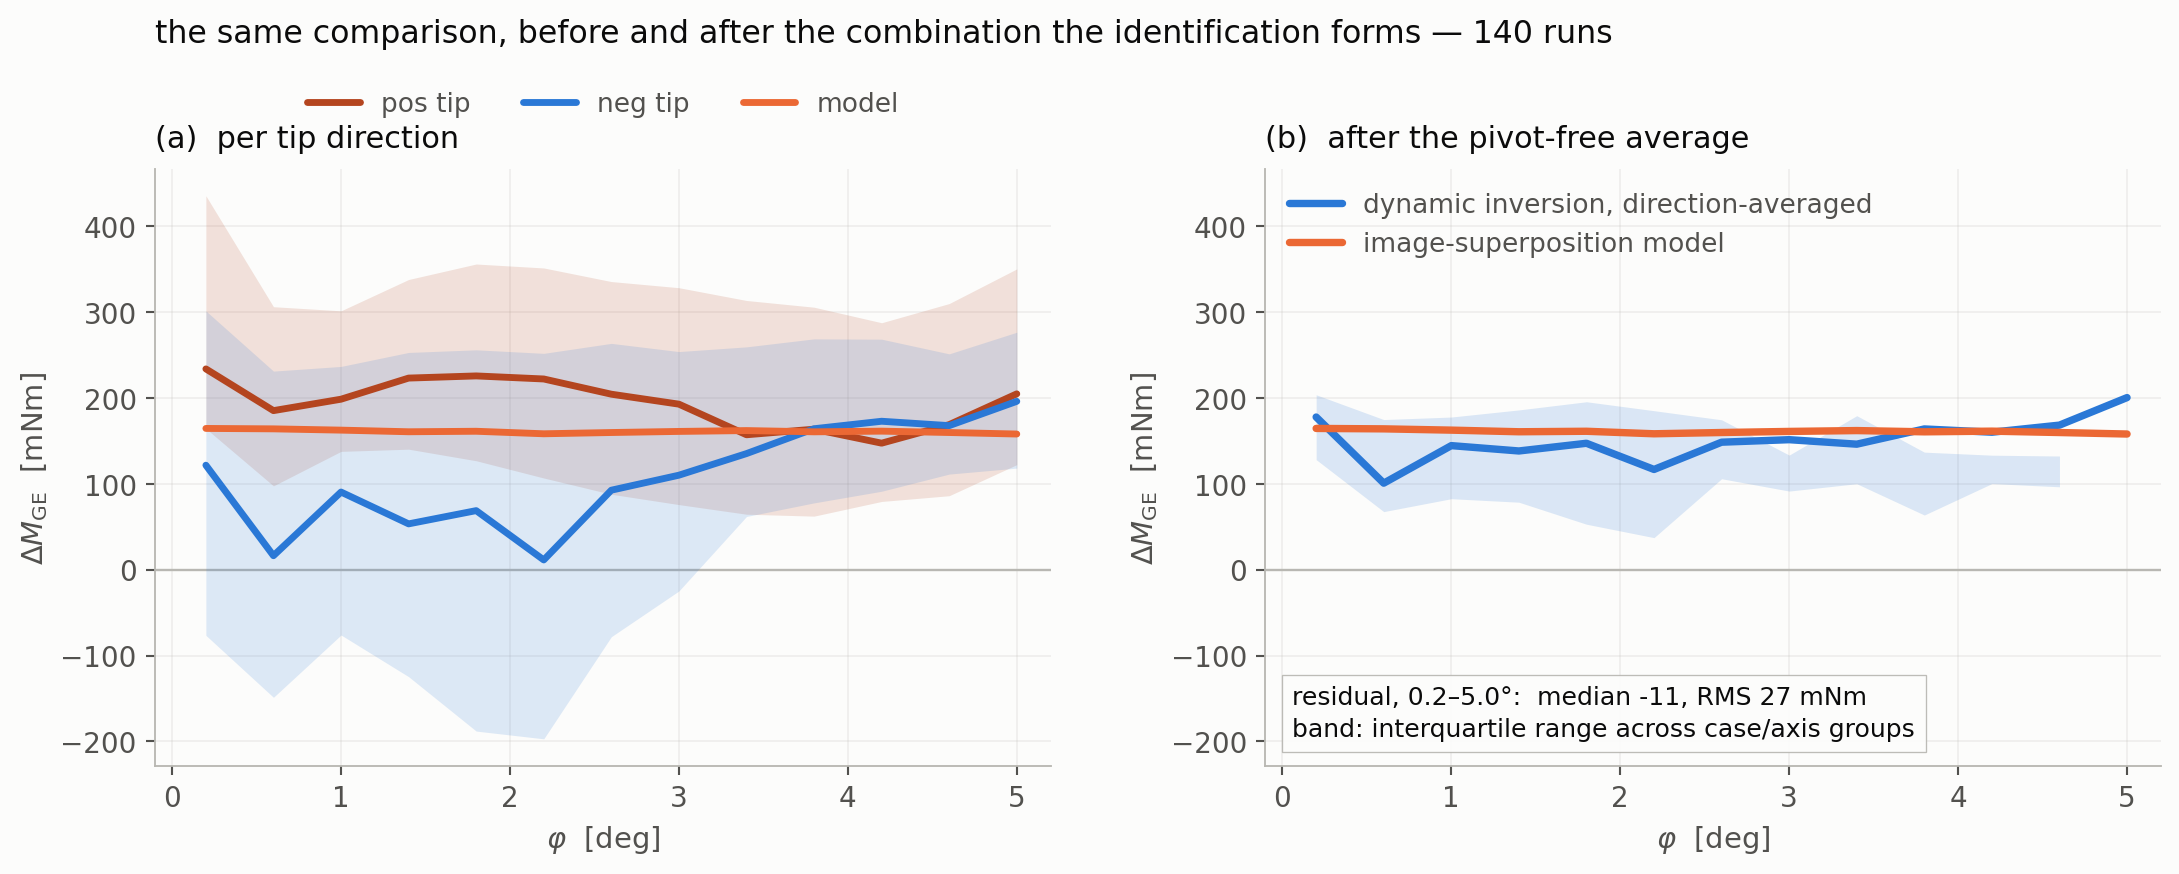
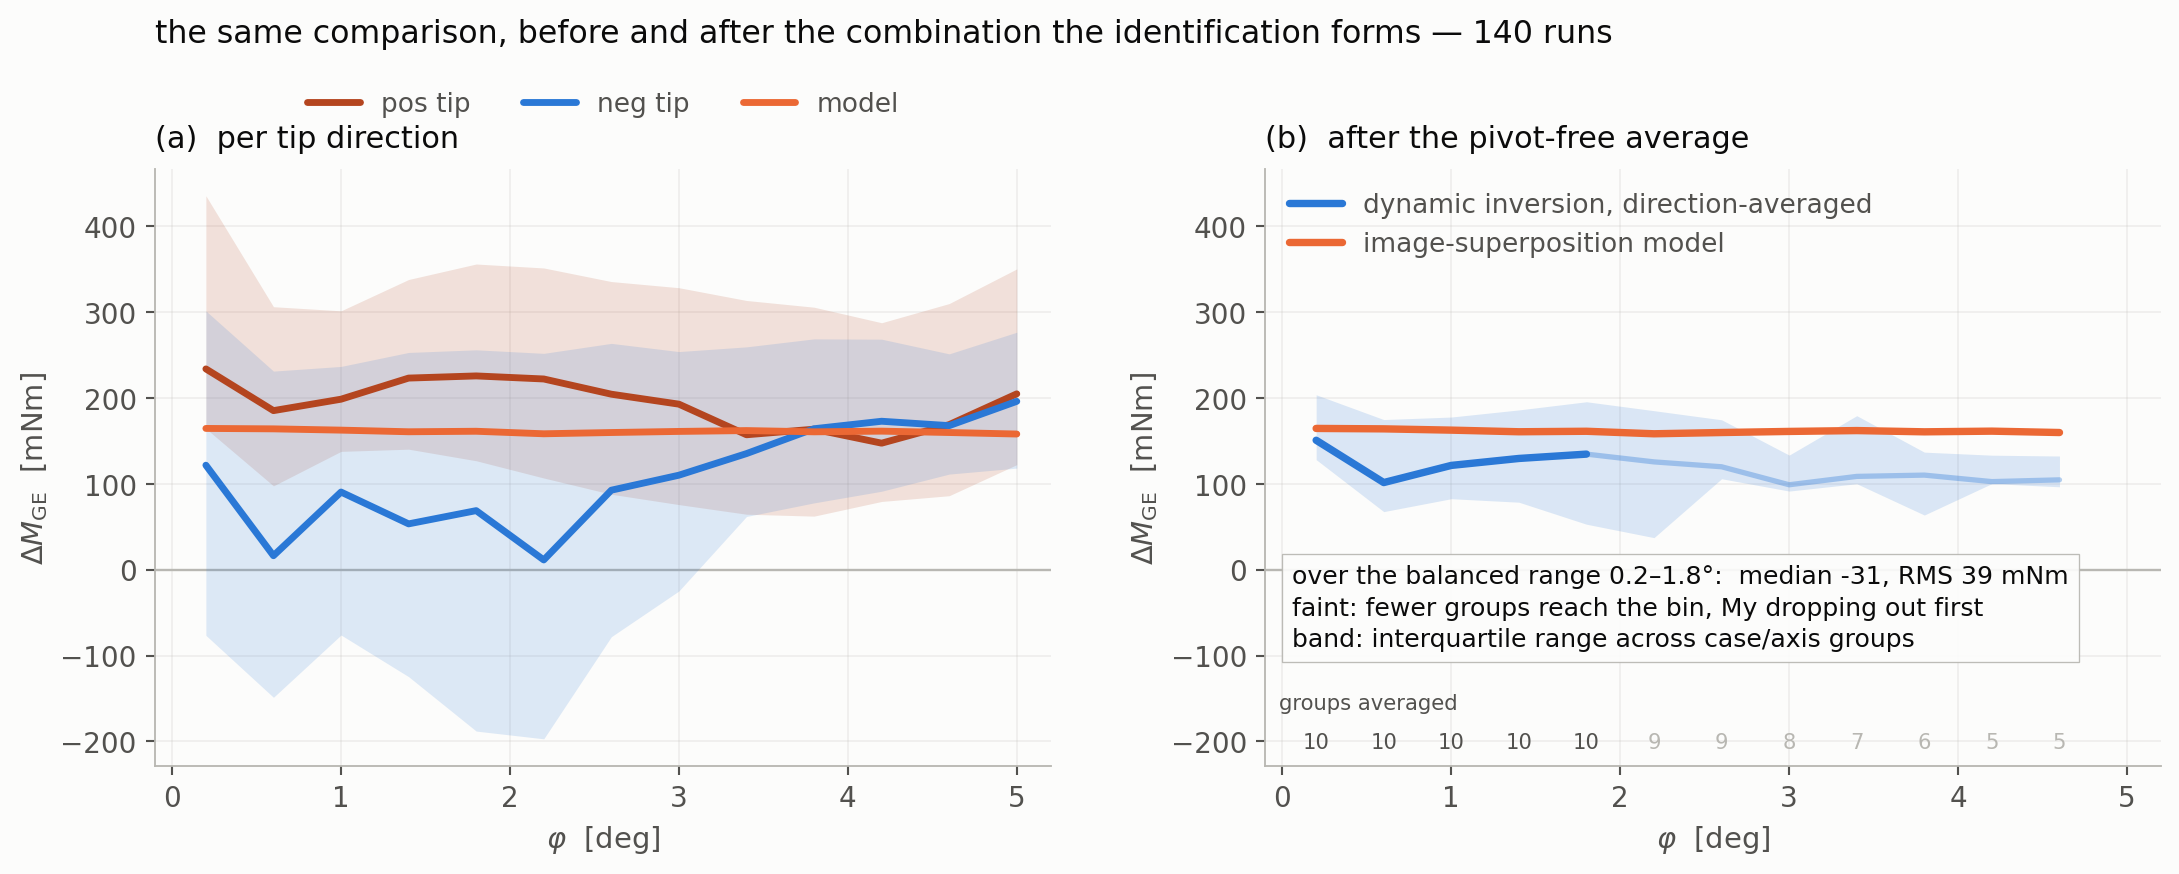
Make panel (b)'s line and band the same estimator
The median line lay outside its own interquartile band, because the
line was the pooled median over all runs while the band was the
quartiles across the ten case/axis groups.  The symmetric combination
only exists per group -- a run tips one way only -- so both are now
taken across groups.

Doing so changes the number materially and for the worse: over 0.2-5.0
deg the pooled line read median -11, RMS 27 mN.m, while the group
median reads -46 and 46.  The reason is visible once the contributing
groups are counted per bin.  All ten form an average out to 1.8 deg;
by 3.0 two My groups have dropped, and by 4.2 every My group has, so
the curve there is an Mx-only statistic compared against a balanced one
at low tilt.  The earlier pooled figure hid that behind sample weights.

Draw the balanced part solid and the rest faint, print the count under
each bin, and quote the residual over the balanced range only: median
-31, RMS 39 mN.m against a model of 160-164.

diff --git a/analysis/ge_dynamics_symmetric_figure.py b/analysis/ge_dynamics_symmetric_figure.py
@@ -169,18 +169,37 @@ YL = ax.get_ylim()
 
 # ---- (b) after the pivot-free average -------------------------------
 ax = axes[1]
-sym = 0.5 * (med_dir['pos'] + med_dir['neg'])
-ok = ~np.isnan(sym)
-band = (~np.isnan(sym_g)).sum(axis=0) >= MIN_G
-b_ = ok & band
-ax.fill_between(CTR[b_], np.nanpercentile(sym_g, 25, axis=0)[b_],
-                np.nanpercentile(sym_g, 75, axis=0)[b_], color=DYN,
+# The line and the band must be the same estimator, or the line can sit
+# outside its own band -- as it did when the line was the pooled median
+# of all runs while the band was the quartiles across groups.  The
+# symmetric combination only exists per group (a run tips one way
+# only), so both are taken across groups.
+ok = (~np.isnan(sym_g)).sum(axis=0) >= MIN_G
+sym = np.where(ok, np.nanmedian(np.where(ok, sym_g, np.nan), axis=0),
+               np.nan)
+ax.fill_between(CTR[ok], np.nanpercentile(sym_g, 25, axis=0)[ok],
+                np.nanpercentile(sym_g, 75, axis=0)[ok], color=DYN,
                 alpha=0.16, lw=0, zorder=2)
-ax.plot(CTR[ok], sym[ok], color=DYN, lw=2.8, zorder=5,
+# The set of groups that can form an average shrinks with tilt, and it
+# does not shrink evenly: by 4.2 deg every My group has dropped out and
+# the curve is an Mx-only statistic, while at low tilt it is balanced
+# five and five.  Draw the balanced part solid and the rest faint, and
+# report the residual over the balanced part.
+ngrp = (~np.isnan(sym_g)).sum(axis=0)
+full = ok & (ngrp == len(GROUPS))
+ax.plot(CTR[ok], sym[ok], color=DYN, lw=2.0, alpha=0.35, zorder=4,
+        solid_capstyle='round')
+ax.plot(CTR[full], sym[full], color=DYN, lw=2.8, zorder=5,
         label='dynamic inversion, direction-averaged',
         solid_capstyle='round')
 ax.plot(CTR[ok], mm_all[ok], color=MOD, lw=2.8, zorder=6,
         label='image-superposition model', solid_capstyle='round')
+for i in np.flatnonzero(ok):
+    ax.annotate(f'{ngrp[i]}', (CTR[i], 0.03), xycoords=('data', 'axes fraction'),
+                ha='center', color=INK2 if ngrp[i] == len(GROUPS) else MUTED,
+                fontsize=8)
+ax.text(0.015, 0.095, 'groups averaged', transform=ax.transAxes,
+        color=INK2, fontsize=8)
 if THIN is not None:
     ax.axvspan(THIN, EDGES[-1], color=MUTED, alpha=0.16, lw=0, zorder=0)
     ax.annotate('fewer than half the\nruns still tipping', (THIN, 0.97),
@@ -191,12 +210,12 @@ dress(ax, '(b)  after the pivot-free average')
 ax.set_ylim(YL)
 ax.legend(fontsize=10, frameon=False, loc='upper left', labelcolor=INK2)
 res = sym[ok] - mm_all[ok]
-solid = ok & (CTR < (THIN if THIN is not None else EDGES[-1]))
-res_s = (sym - mm_all)[solid]
-ax.text(0.03, 0.05,
-        f'residual, {CTR[ok][0]:.1f}–{CTR[ok][-1]:.1f}°:  '
-        f'median {np.median(res):+.0f}, RMS {np.sqrt(np.mean(res**2)):.0f}'
-        f' mNm\n'
+res_s = (sym - mm_all)[full]
+ax.text(0.03, 0.20,
+        f'over the balanced range {CTR[full][0]:.1f}–{CTR[full][-1]:.1f}°:  '
+        f'median {np.median(res_s):+.0f}, RMS '
+        f'{np.sqrt(np.mean(res_s**2)):.0f} mNm\n'
+        f'faint: fewer groups reach the bin, My dropping out first\n'
         f'band: interquartile range across case/axis groups',
         transform=ax.transAxes, fontsize=9.5, color=INK, linespacing=1.4,
         bbox=dict(fc=SURF, ec=MUTED, lw=0.5, pad=4, alpha=0.93))
@@ -209,8 +228,9 @@ fig.savefig(OUT / 'fig_ge_dynamics_sym.pdf', bbox_inches='tight')
 fig.savefig(OUT / 'fig_ge_dynamics_sym.png', bbox_inches='tight', dpi=190)
 print(f"-> {OUT / 'fig_ge_dynamics_sym.pdf'}")
 print(f"   averaged curve spans {CTR[ok][0]:.1f}-{CTR[ok][-1]:.1f} deg")
-print(f"   unshaded {CTR[solid][0]:.1f}-{CTR[solid][-1]:.1f} deg:"
-      f"  median {np.median(res_s):+.1f}  RMS {np.sqrt(np.mean(res_s**2)):.1f}")
+print(f"   balanced {CTR[full][0]:.1f}-{CTR[full][-1]:.1f} deg (all "
+      f"{len(GROUPS)} groups):  median {np.median(res_s):+.1f}"
+      f"  RMS {np.sqrt(np.mean(res_s ** 2)):.1f}")
 print(f"   residual  median {np.median(res):+.1f}  RMS "
       f"{np.sqrt(np.mean(res ** 2)):.1f}  max |{np.max(np.abs(res)):.0f}| mNm")
 for c, v, s_, m_ in zip(CTR[ok], res, sym[ok], mm_all[ok]):
